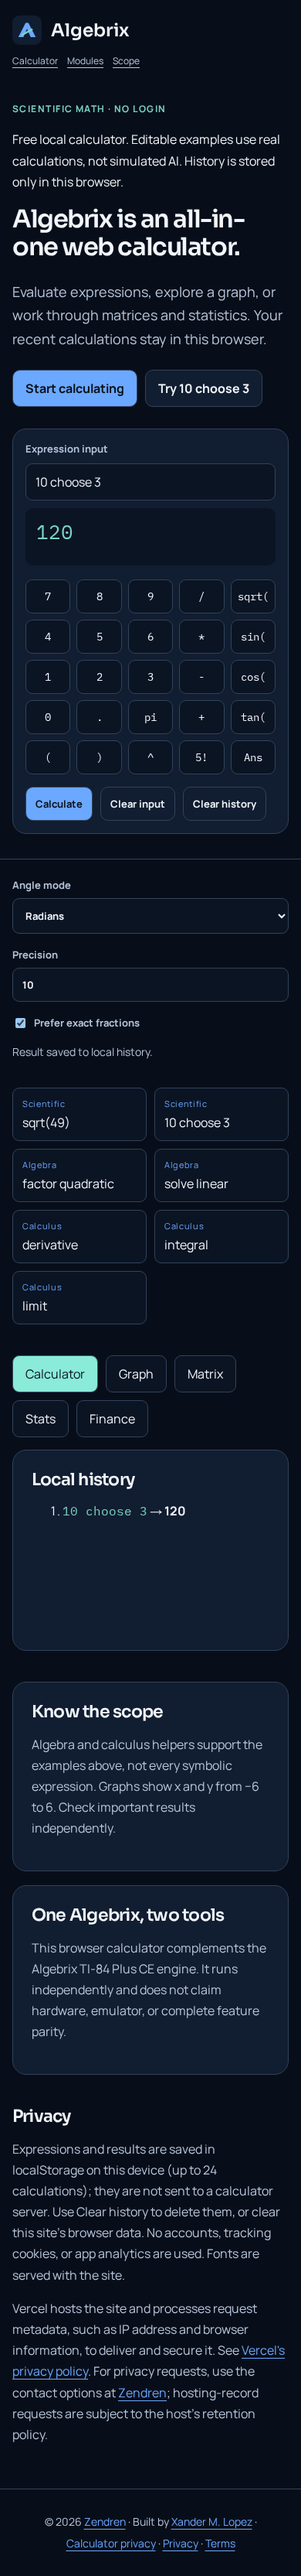
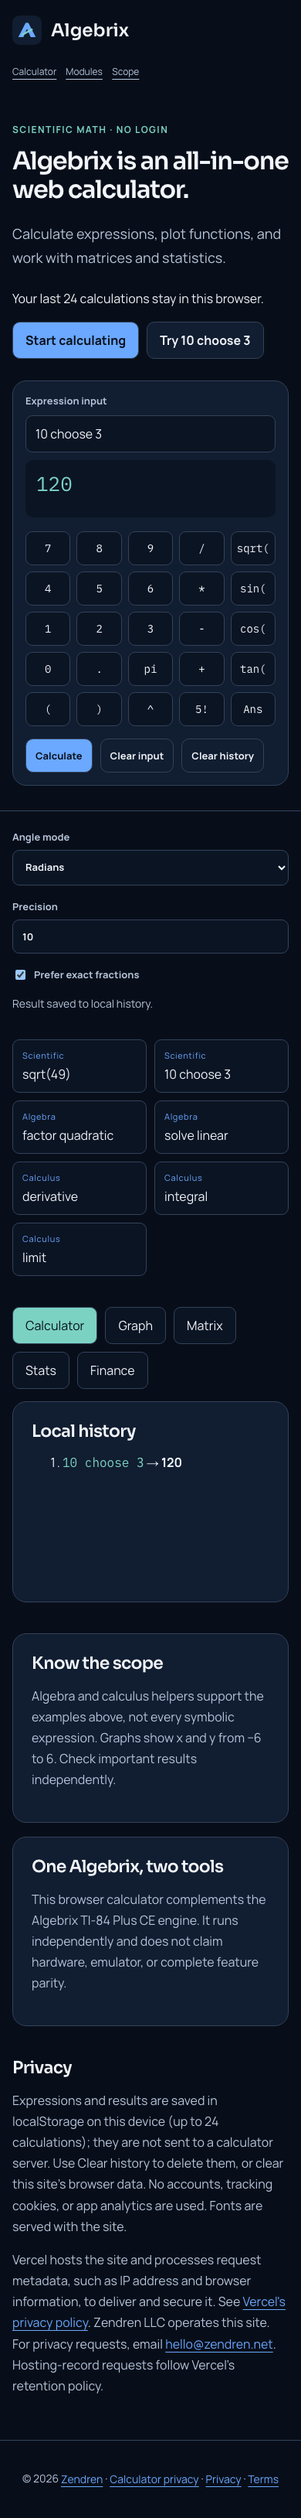
Remove personal credit from Algebrix Web

diff --git a/tests/app.spec.ts b/tests/app.spec.ts
@@ -32,13 +32,24 @@ test('desktop hero keeps "all-in-one" on one line at 1440x900', async ({ page })
   expect(lines).toBe(1)
 })
 
+test('the calculator footer and privacy section identify Zendren', async ({ page }) => {
+  await page.goto('/')
+  const footer = page.locator('footer')
+  await expect(footer).toHaveText(`© ${new Date().getFullYear()} Zendren · Calculator privacy · Privacy · Terms`)
+  await expect(footer.getByRole('link', { name: 'Zendren', exact: true })).toHaveAttribute('href', 'https://zendren.net')
+  await expect(footer.getByRole('link', { name: 'Privacy', exact: true })).toHaveAttribute('href', 'https://zendren.net/privacy')
+  const privacy = page.locator('#privacy')
+  await expect(privacy).toContainText('Zendren LLC operates this site.')
+  await expect(privacy.getByRole('link', { name: 'hello@zendren.net' })).toHaveAttribute('href', 'mailto:hello@zendren.net')
+})
+
 for (const width of [320, 768, 1280]) {
   test(`header and footer links are 44px touch targets without overflow at ${width}px`, async ({ page }) => {
     await page.setViewportSize({ width, height: 800 })
     await page.goto('/')
     const boxes = await page.locator('nav.topbar a, footer a').evaluateAll((els) =>
       els.map((el) => { const r = el.getBoundingClientRect(); return { text: el.textContent, w: r.width, h: r.height } }))
-    expect(boxes.length).toBe(8)
+    expect(boxes.length).toBe(7)
     for (const box of boxes) {
       expect(box.h, `${box.text} height`).toBeGreaterThanOrEqual(44)
       expect(box.w, `${box.text} width`).toBeGreaterThanOrEqual(24)
@@ -46,10 +57,10 @@ for (const width of [320, 768, 1280]) {
     const overflow = await page.evaluate(() => document.documentElement.scrollWidth - window.innerWidth)
     expect(overflow).toBeLessThanOrEqual(0)
     if (width === 320) {
-      // Footer links must keep the 2-line wrap; extra link padding once pushed it to 3 lines.
+      // Keep the footer within two lines at the smallest supported width.
       const rows = await page.locator('footer a').evaluateAll((els) =>
         new Set(els.map((el) => Math.round(el.getBoundingClientRect().top))).size)
-      expect(rows, 'footer link rows at 320px').toBe(2)
+      expect(rows, 'footer link rows at 320px').toBeLessThanOrEqual(2)
     }
   })
 }

diff --git a/src/App.tsx b/src/App.tsx
@@ -478,9 +478,9 @@ export default function App() {
     <section id="privacy" className="privacy module-shell" aria-labelledby="privacy-title">
       <h2 id="privacy-title">Privacy</h2>
       <p>Expressions and results are saved in localStorage on this device (up to 24 calculations); they are not sent to a calculator server. Use Clear history to delete them, or clear this site's browser data. No accounts, tracking cookies, or app analytics are used. Fonts are served with the site.</p>
-      <p>Vercel hosts the site and processes request metadata, such as IP address and browser information, to deliver and secure it. See <a href="https://vercel.com/legal/privacy-policy">Vercel's privacy policy</a>. For privacy requests, use the contact options at <a href="https://zendren.net">Zendren</a>; hosting-record requests are subject to the host's retention policy.</p>
+      <p>Vercel hosts the site and processes request metadata, such as IP address and browser information, to deliver and secure it. See <a href="https://vercel.com/legal/privacy-policy">Vercel's privacy policy</a>. Zendren LLC operates this site. For privacy requests, email <a href="mailto:hello@zendren.net">hello@zendren.net</a>. Hosting-record requests follow Vercel's retention policy.</p>
     </section>
-    <footer>© {new Date().getFullYear()} <a href="https://zendren.net">Zendren</a> · Built by <a href="https://xandermlopez.com" rel="author">Xander M. Lopez</a> · <a href="#privacy">Calculator privacy</a> · <a href="https://zendren.net/privacy">Privacy</a> · <a href="https://zendren.net/terms">Terms</a></footer>
+    <footer>© {new Date().getFullYear()} <a href="https://zendren.net">Zendren</a> · <a href="#privacy">Calculator privacy</a> · <a href="https://zendren.net/privacy">Privacy</a> · <a href="https://zendren.net/terms">Terms</a></footer>
   </main>
   </>
 }

diff --git a/tests/portfolio.spec.ts b/tests/portfolio.spec.ts
@@ -55,6 +55,10 @@ for (const viewport of [{ width: 390, height: 844 }, { width: 1440, height: 900 
     const response = await page.goto('/this-does-not-exist')
     expect(response?.status()).toBe(404)
     await expect(page.getByRole('heading', { name: "That page isn't here." })).toBeVisible()
+    const footer = page.locator('footer')
+    await expect(footer).toHaveText(`© ${new Date().getFullYear()} Zendren · Calculator privacy · Privacy · Terms`)
+    await expect(footer.getByRole('link', { name: 'Zendren', exact: true })).toHaveAttribute('href', 'https://zendren.net')
+    await expect(footer.getByRole('link', { name: 'Privacy', exact: true })).toHaveAttribute('href', 'https://zendren.net/privacy')
     await page.screenshot({ path: testInfo.outputPath(`404-${viewport.width}.png`), fullPage: true })
   })
 }

diff --git a/vite.config.ts b/vite.config.ts
@@ -1,6 +1,11 @@
 import { defineConfig } from 'vite'
 import react from '@vitejs/plugin-react'
 
+// Keep Vercel commit and repository metadata out of the client environment.
+for (const key of Object.keys(process.env)) {
+  if (key.startsWith('VITE_VERCEL_')) delete process.env[key]
+}
+
 export default defineConfig({
   plugins: [react()],
 })

diff --git a/README.md b/README.md
@@ -75,7 +75,7 @@ The inputs are editable examples, not simulated AI results. No login or purchase
 
 ## Privacy
 
-History uses browser localStorage, not a remote calculation service. Storage failures leave calculations working for the current visit. No app analytics, accounts or tracking cookies are implemented. Hosting still processes request metadata. The site's Privacy section explains processors, deletion and contact options.
+History uses browser localStorage, not a remote calculation service. Storage failures leave calculations working for the current visit. No app analytics, accounts or tracking cookies are implemented. Hosting still processes request metadata. The site's Privacy section explains processors and deletion. Zendren LLC operates the calculator. Email [hello@zendren.net](mailto:hello@zendren.net) for privacy requests.
 
 ## Recreating the evidence
 
